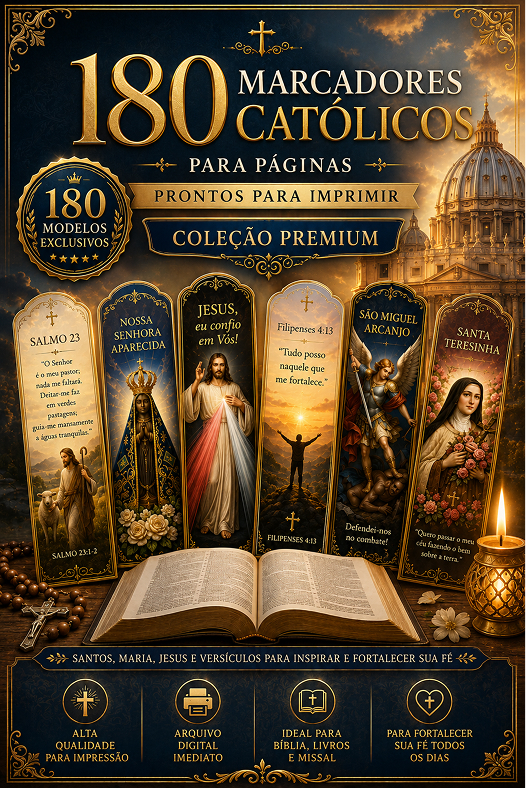
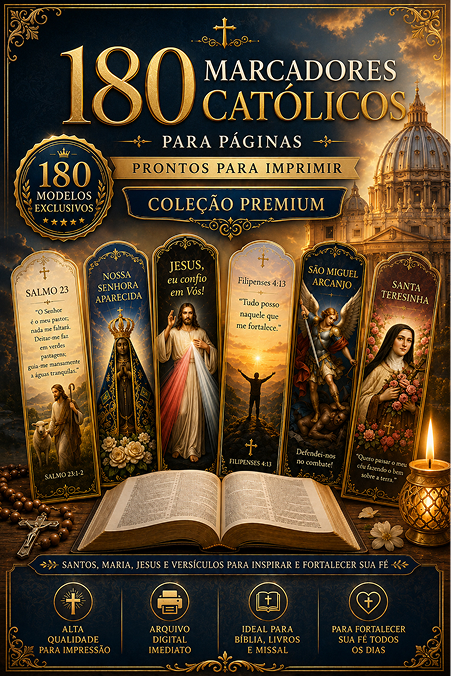
21

diff --git a/index.html b/index.html
@@ -247,21 +247,21 @@
     <div class="container">
       <div class="bonuses-grid">
         <div class="bonus-card reveal">
-          <div class="bonus-num">Bônus 1</div>
           <img src="public/b1.jpg" alt="B&#244;nus 1" style="width:100%;border-radius:8px;margin-bottom:12px;">
+          <div class="bonus-num">&#127873; B&#244;nus 1</div>
           <h3>Imprima Como Profissional com Qualquer Impressora</h3>
           <p>Tudo que você precisa saber pra imprimir seus marcadores com qualidade: papel recomendado, gramatura ideal, plastificação, como recortar e dicas extras de cuidados.</p>
         </div>
         <div class="bonus-card reveal">
-          <div class="bonus-num">Bônus 2</div>
-          <div class="bonus-ico">&#127752;</div>
+          <img src="public/b2.jpg" alt="B&#244;nus 2" style="width:100%;border-radius:8px;margin-bottom:12px;">
+          <div class="bonus-num">&#127873; B&#244;nus 2</div>
           <h3>Bíblia Descomplicada em Mapas Mentais</h3>
           <p>Mapas mentais visuais de todos os livros da Bíblia: quem escreveu, tema central e versículos-chave de cada um. Perfeito pra entender o que você está lendo e aprofundar sua fé sem se perder no caminho.</p>
         </div>
         <div class="bonus-card bonus-premium reveal">
-          <div class="bonus-num">Bônus 3</div>
+          <img src="public/b3.jpg" alt="B&#244;nus 3" style="width:100%;border-radius:8px;margin-bottom:12px;">
+          <div class="bonus-num">&#127873; B&#244;nus 3</div>
           <div class="premium-tag">Super Premium</div>
-          <div class="bonus-ico">&#128218;</div>
           <h3>Marcadores Bíblicos para os Pequenos</h3>
           <p>30 marcadores especiais com ilustrações fofas e versículos das principais histórias da Bíblia: Arca de Noé, Nascimento de Jesus, Multiplicação dos Pães e muito mais. Perfeito pra incentivar a leitura e a fé desde pequeninho.</p>
           <div class="bonus-value"><del>De R$97,00</del> <strong>GRÁTIS PARA VOCÊ</strong></div>
@@ -304,11 +304,11 @@
             <li class="yes">&#9989; 80 marcadores premium prontos para imprimir</li>
             <li class="yes">&#9989; Tamanho 5x15cm — ideal para Bíblia e livros</li>
             <li class="yes">&#9989; Arquivo digital — acesso imediato por 6 meses</li>
-            <li class="no">&#10060; Bônus 1 — Imprima Como Profissional com Qualquer Impressora</li>
-            <li class="no">&#10060; Bônus 2 — Bíblia Descomplicada em Mapas Mentais</li>
-            <li class="no">&#10060; Bônus 3 — Marcadores Bíblicos para os Pequenos</li>
-            <li class="no">&#10060; Bônus 4 — Playlist +120 músicas marianas</li>
-            <li class="no">&#10060; Bônus 5 — Calendário Litúrgico para Imprimir</li>
+            <li class="no">&#10060; &#127873; B&#244;nus 1 — Imprima Como Profissional com Qualquer Impressora</li>
+            <li class="no">&#10060; &#127873; B&#244;nus 2 — Bíblia Descomplicada em Mapas Mentais</li>
+            <li class="no">&#10060; &#127873; B&#244;nus 3 — Marcadores Bíblicos para os Pequenos</li>
+            <li class="no">&#10060; &#127873; B&#244;nus 4 — Playlist +120 músicas marianas</li>
+            <li class="no">&#10060; &#127873; B&#244;nus 5 — Calendário Litúrgico para Imprimir</li>
           </ul>
           <div class="price-box">
             <del class="price-from">De R$67,00</del>
@@ -330,17 +330,17 @@
           </div>
           <ul class="plan-list">
             <li class="yes">&#9989; 180 marcadores principais (5x15cm)</li>
-            <li class="yes">&#9989; Bônus 1 — Imprima Como Profissional com Qualquer Impressora</li>
-            <li class="yes">&#9989; Bônus 2 — Bíblia Descomplicada em Mapas Mentais</li>
-            <li class="yes">&#9989; Bônus 3 — Marcadores Bíblicos para os Pequenos</li>
-            <li class="yes">&#9989; Bônus 4 — Playlist +120 músicas marianas</li>
-            <li class="yes">&#9989; Bônus 5 — Calendário Litúrgico para Imprimir</li>
+            <li class="yes">&#9989; &#127873; B&#244;nus 1 — Imprima Como Profissional com Qualquer Impressora</li>
+            <li class="yes">&#9989; &#127873; B&#244;nus 2 — Bíblia Descomplicada em Mapas Mentais</li>
+            <li class="yes">&#9989; &#127873; B&#244;nus 3 — Marcadores Bíblicos para os Pequenos</li>
+            <li class="yes">&#9989; &#127873; B&#244;nus 4 — Playlist +120 músicas marianas</li>
+            <li class="yes">&#9989; &#127873; B&#244;nus 5 — Calendário Litúrgico para Imprimir</li>
             <li class="yes">&#9989; Acesso Vitalício + Atualizações</li>
           </ul>
           <div class="price-box">
             <del class="price-from">De R$97,00</del>
             <span class="price-main">R$24,90</span>
-            <span class="price-note">apenas R$10 a mais por +130 marcadores bônus e 5 bônus exclusivos</span>
+            <span class="price-note">apenas R$10 a mais por <b>+130 marcadores bônus e 5 bônus exclusivos</b></span>
           </div>
           <a href="https://mundoconhecimento.mycartpanda.com/checkout/211295293:1" class="btn btn-gold btn-lg pulse-anim" target="_blank" rel="noopener">QUERO A SUPER OFERTA</a>
           <p class="security-note">&#128274; Pagamento 100% seguro</p>

diff --git a/style.css b/style.css
@@ -650,9 +650,8 @@ section { padding: 80px 0; }
 .super-highlights div { font-size: .83rem; color: var(--text); font-weight: 500; }
 
 .plan-list { list-style: none; margin-bottom: 26px; }
-.plan-list li { padding: 8px 0; font-size: .87rem; border-bottom: 1px solid var(--border); line-height: 1.4; }
-.plan-list li:last-child { border-bottom: none; }
-.plan-list li.no { opacity: .45; }
+.plan-list li { padding: 8px 0; font-size: .87rem; line-height: 1.4; }
+.plan-list li.no { opacity: .7; }
 
 .price-box { margin-bottom: 22px; text-align: center; }
 .price-from { display: block; font-size: .87rem; color: var(--text-muted); margin-bottom: 2px; }